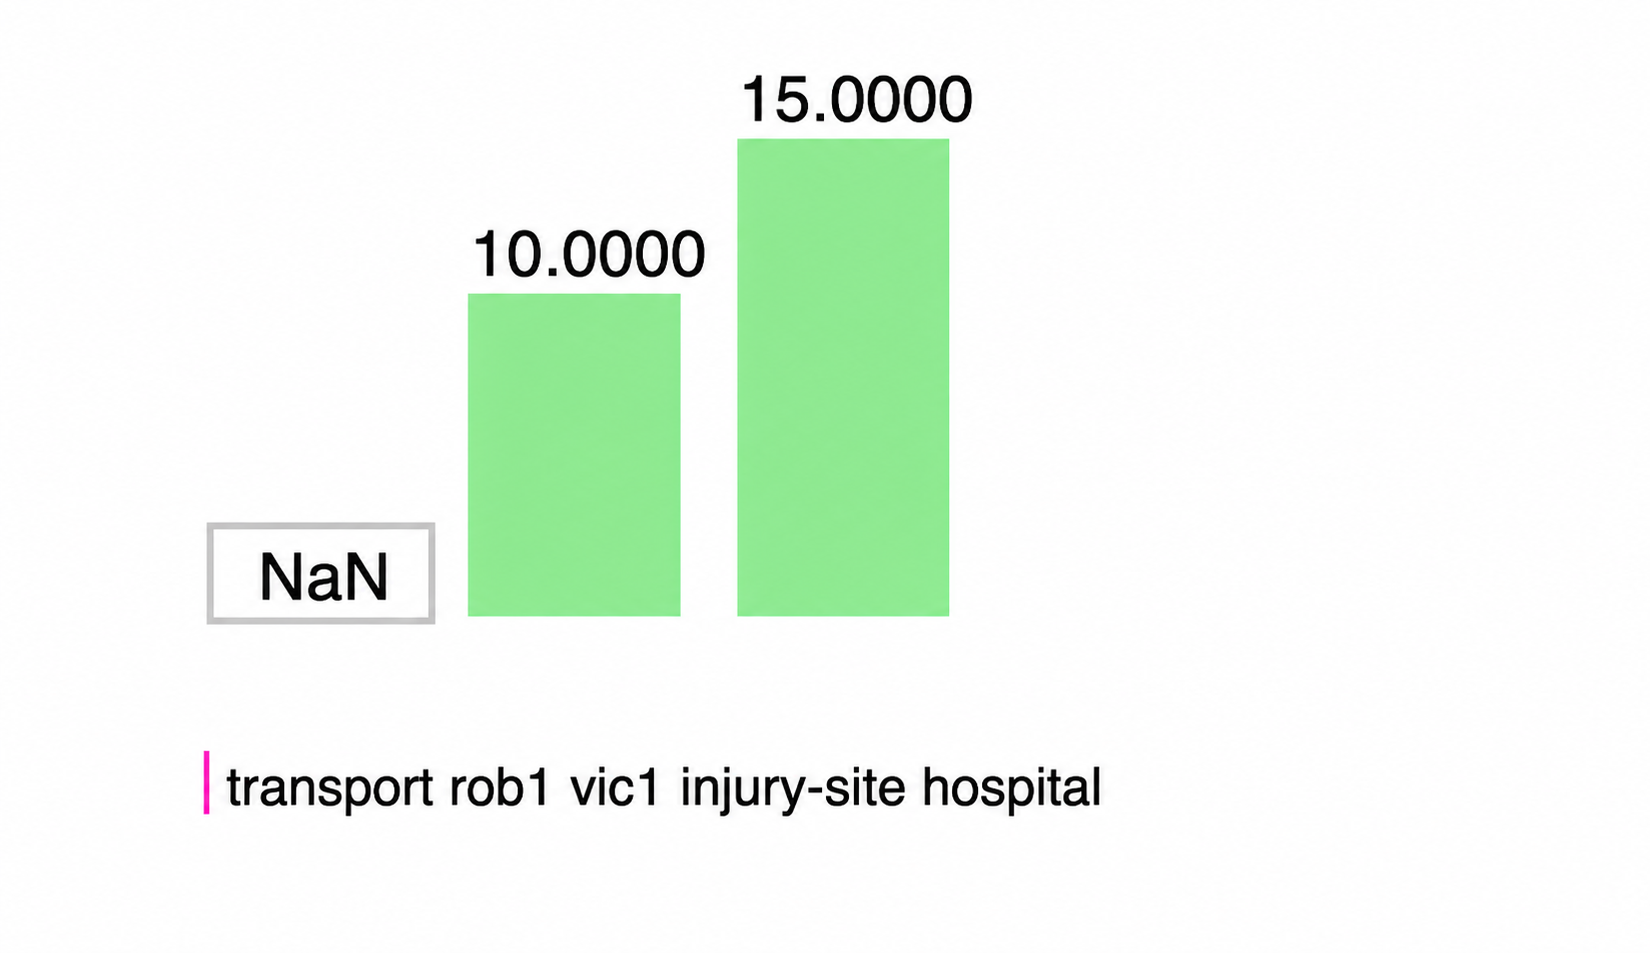
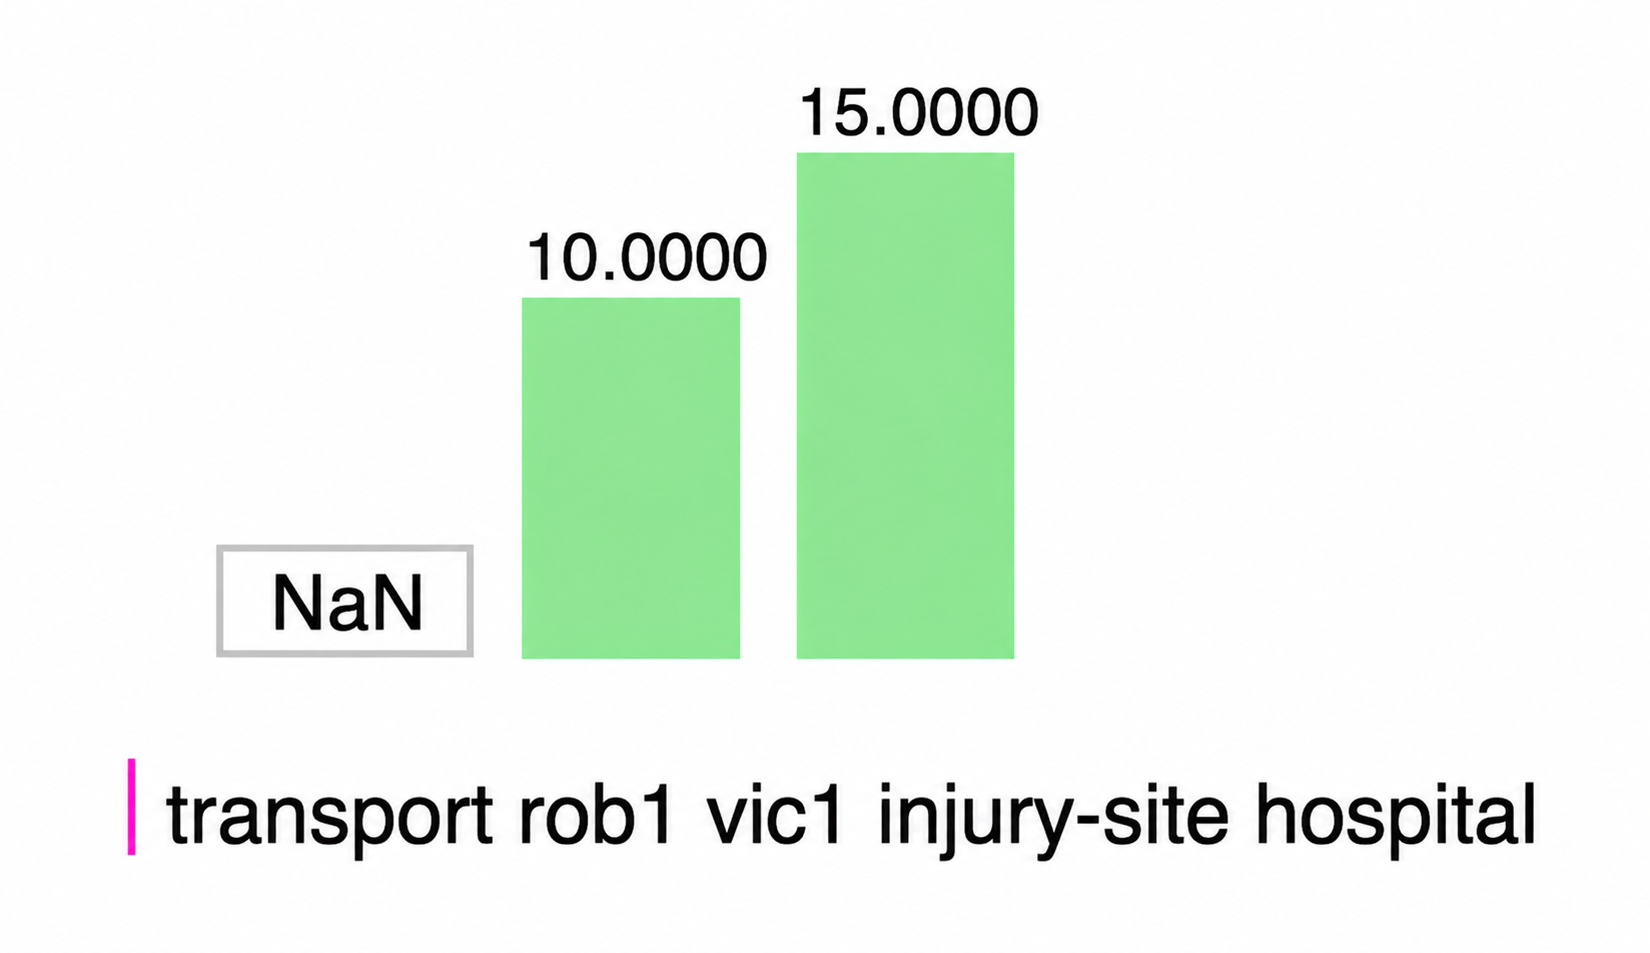
Updated readme

Changed region(s): [[0.1236, 0.0609, 0.6491, 0.6999], [0.0618, 0.7912, 0.9273, 0.9129]]

diff --git a/README.md b/README.md
@@ -62,6 +62,16 @@ transport - transporting the victim.
 ```
 The transport action has not been modeled with any time-units as the action does not affect the health-decay because the victim is stabilized.
 
+The planning goal is defined as:
+
+```lisp
+(evacuated vic1)
+(not (health-failure vic1))
+```
+
+A valid plan therefore requires the victim to be evacuated without entering a health-failure state (health ≤ 0).  
+The evacuation condition additionally prevents the planner from generating an empty or instantaneous plan.
+
 **Problem 1 - Mild Injury**
 
 For the first problem the injury is the same as for the mild injury with PDDL:
@@ -98,6 +108,40 @@ t = 15
 </tr>
 </table>
 
+Each of the images correspond to the actions at different time-intervals. For the case of the mild injury one can observe that all the steps are included, all the way to transporting the victim to the hospital. The planner is thus able to find a viable plan. 
+
+**Problem 2 - Critical Injury**
+For the critical problem the injury is described as:
+```text
+Critical Injury - Major Bleed 
+Treatment - Tourniquet
+```
+Now the parameters for inital health has been set to:  
+```text
+health = 90  
+worsening-rate = 6
+```
+This indicates that the victim is similarily to the mild injury, at good health initially, but this value is rapidly decreasing. This leads to the planner output being:
+
+![pddl_critical](Plans/Pddl_plus_critical.png)
+
+This is an empty plan, indicating that the planner could not find a plan to reach the goal. 
+
+
+The following table compares the **Mild (90-1)** and **Critical (90-6)** scenarios. It shows why the planner succeeds in one and fails the other based on the **16-second** minimum intervention time.
+
+| Metric | Mild Case (90-1) | Critical Case (90-6) |
+| --- | --- | --- |
+| **Initial Health** | 90 | 90 |
+| **Worsening Rate** | -1 / sec | -6 / sec |
+| **Survival Time** | **90.0s** | **15.0s** |
+| **Travel Time** | 10.0s | 10.0s |
+| **Diagnosis Penalty** | 1.0s | 6.0s |
+| **Stabilization Time** | 5.0s | 5.0s |
+| **Total Time Needed** | **16.0s** | **16.0s** |
+| **Result** | **Success** (Health: 74) | **Failure** (Health: -6) |
+
+For this second **critical** case, the robot requires 16 seconds to complete stabilization, and the `victim-health-failure` event triggers first. Thus the robot is not able to `stabilize`, nor reach the plan goal. 
 
 ## DISCUSSION
 